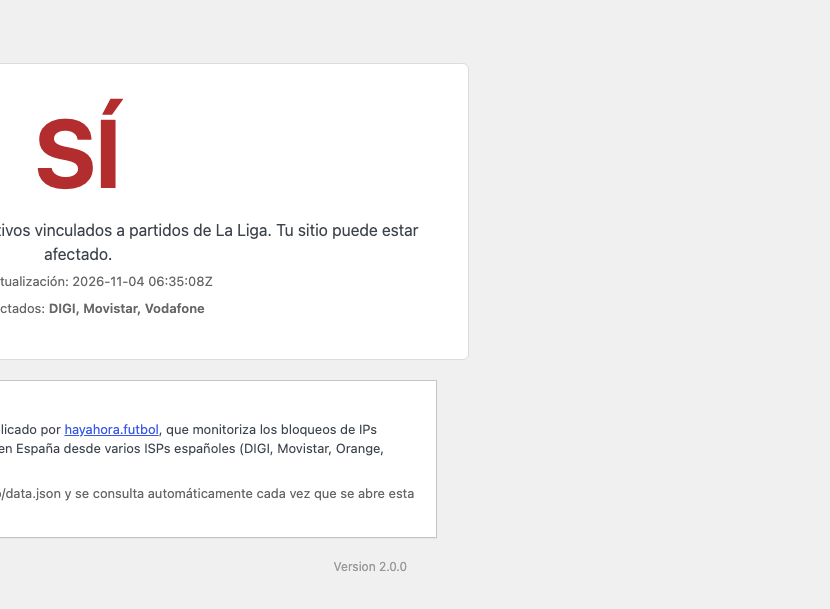
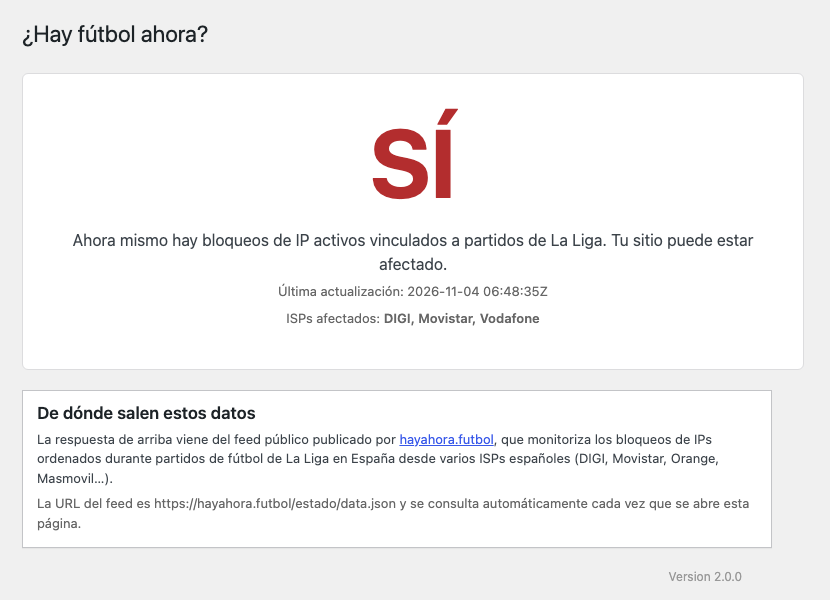
2.0.0: la caché DNS refleja el estado tras la comprobación automática
check_football_and_manage_cloudflare() guardaba al final una copia de los
ajustes leída antes de refrescar la caché, y los PUT a Cloudflare tampoco
la actualizaban. Tras un cambio, la página de Operación y list-dns-records
mostraban el estado anterior hasta el siguiente refresco.

Rehace también la captura 3, que quedó mal recortada.

diff --git a/es-football-bypass.php b/es-football-bypass.php
@@ -2705,6 +2705,18 @@ final class Cfbcolorvivo_Cloudflare_Football_Bypass {
 			}
 		}
 
+		if ( ! empty( $settings['selected_records'] ) ) {
+			// Los PUT no tocan la caché: la recargamos para que refleje el estado que acabamos de aplicar.
+			if ( $updated > 0 ) {
+				$after = $this->fetch_dns_records();
+				if ( ! empty( $after ) ) {
+					$this->persist_dns_cache( $after );
+				}
+			}
+			// $settings se leyó antes de refrescar la caché: guardarlo tal cual la sobrescribiría con datos viejos.
+			$settings = $this->get_settings();
+		}
+
 		$settings['last_check']          = $now_mysql;
 		$settings['last_status_general'] = ( 'SÍ' === $general ) ? 'SI' : 'NO';
 		$settings['last_status_domain']  = ( 'SÍ' === $domain ) ? 'SI' : 'NO';
